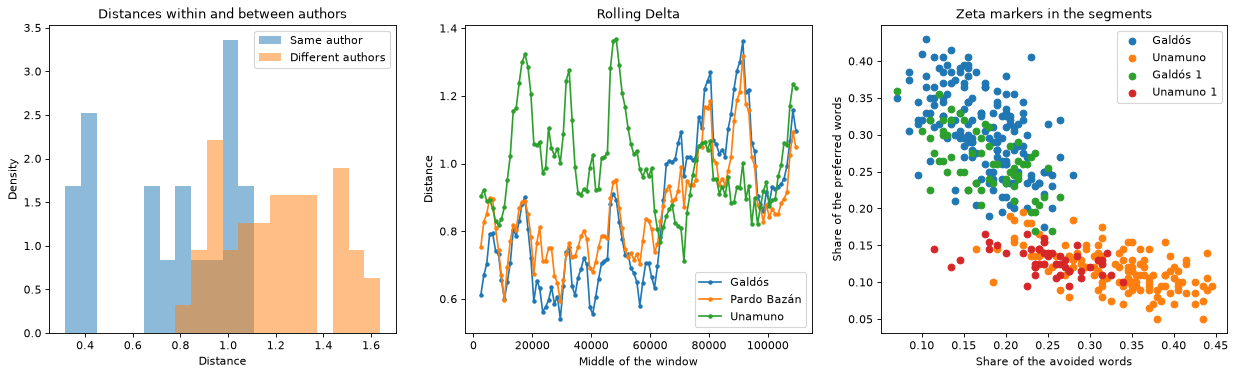
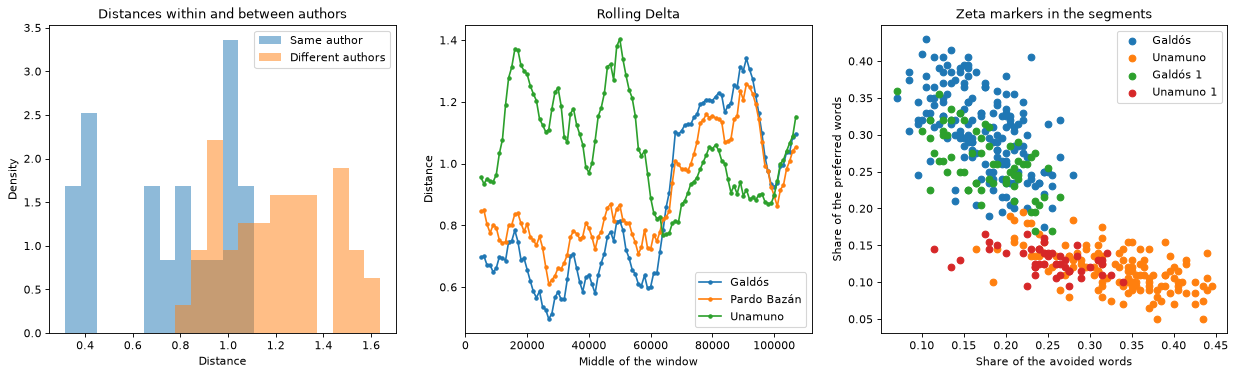
Review of PR #84: rolling Delta over windows of 10000 words, the paragraphs in the summaries

diff --git a/README.es.md b/README.es.md
@@ -37,7 +37,7 @@
 
 La biblioteca trabaja tanto con cadenas como con objetos `Doc` de [spaCy](https://github.com/explosion/spaCy); la mayoría de las estadísticas no necesita un modelo entrenado (véase Instalación). Se puede probar sin instalar en la [demo en Hugging Face Spaces](https://huggingface.co/spaces/SergeyShk/esTS): pegue un texto y obtenga su legibilidad, las métricas, los gráficos y el resaltado de sus fragmentos. Los [cuadernos](https://sergeyshk.github.io/esTS/es/examples/) muestran la biblioteca sobre sus conjuntos de datos - un cuento analizado con todas las herramientas, los prosistas, los sonetos y las medidas de corpus; el primero se abre en [Colab](https://colab.research.google.com/github/SergeyShk/esTS/blob/master/examples/01_text_walkthrough.ipynb).
 
-* **[Extracción de objetos](https://sergeyshk.github.io/esTS/es/extractors/sentences/)** - tokenizadores configurables de oraciones, palabras y N-gramas de caracteres que conocen los signos de apertura, la raya de diálogo y las abreviaturas del español
+* **[Extracción de objetos](https://sergeyshk.github.io/esTS/es/extractors/sentences/)** - tokenizadores configurables de oraciones, palabras y N-gramas de caracteres que conocen los signos de apertura, la raya de diálogo y las abreviaturas del español, y los párrafos de un texto
 * **[Sílabas y acento](https://sergeyshk.github.io/esTS/es/syllables/)** - silabificación por reglas y sílaba tónica deducida de la escritura, sin diccionario
 * **[Estadísticas básicas](https://sergeyshk.github.io/esTS/es/stats/basic_stats/)** - recuentos de oraciones, palabras, letras, sílabas y signos de puntuación por tipo, con distribuciones y proporciones normalizadas
 * **[Métricas de legibilidad](https://sergeyshk.github.io/esTS/es/stats/readability_stats/)** - Fernández Huerta, Szigriszt-Pazos con la escala INFLESZ, Gutiérrez de Polini, Crawford, Legibilidad µ, SOL, LIX y RIX, con grado de consenso, etapas escolares de España y tiempo de lectura, y fórmulas de otros idiomas con sus propios coeficientes
@@ -117,7 +117,7 @@ Las estadísticas según el diccionario de frecuencias lo necesitan descargado u
 
 ### Extracción de objetos
 
-Herramientas configurables extraen de un texto las oraciones, las palabras y los N-gramas de caracteres para las estadísticas. El segmentador de oraciones conoce los signos de apertura, la raya de diálogo y las abreviaturas del español; el tokenizador de palabras mantiene enteros los clíticos, los ordinales y los números escritos a la española, y los lemas vienen de [simplemma](https://github.com/adbar/simplemma), que no necesita modelo.
+Herramientas configurables extraen de un texto las oraciones, las palabras y los N-gramas de caracteres para las estadísticas, y `split_paragraphs` sus párrafos entre líneas en blanco. El segmentador de oraciones conoce los signos de apertura, la raya de diálogo y las abreviaturas del español; el tokenizador de palabras mantiene enteros los clíticos, los ordinales y los números escritos a la española, y los lemas vienen de [simplemma](https://github.com/adbar/simplemma), que no necesita modelo.
 
 ```python
 >>> from ests import CharNgramsExtractor, SentsExtractor, WordsExtractor
@@ -726,7 +726,7 @@ Los informes de errores, las ideas y los pull requests son bienvenidos en las [i
     *   constants.py - constantes de la lengua española y de las métricas
     *   diversity_stats.py - métricas de diversidad léxica del núcleo anyTS sobre una cadena o un Doc
     *   exceptions.py - excepciones de la biblioteca
-    *   extractors.py - los extractores del núcleo anyTS con los tokenizadores del español
+    *   extractors.py - los extractores del núcleo anyTS con los tokenizadores del español, los párrafos de un texto
     *   morph_stats.py - estadísticas morfológicas
     *   readability_stats.py - métricas de legibilidad: las fórmulas del español sobre las del núcleo anyTS
     *   unadapted_readability_stats.py - fórmulas de legibilidad de otros idiomas

diff --git a/README.md b/README.md
@@ -37,7 +37,7 @@
 
 The library works both with raw strings and with `Doc` objects of [spaCy](https://github.com/explosion/spaCy); most statistics need no trained model (see Installation). Try it without installing in the [demo on Hugging Face Spaces](https://huggingface.co/spaces/SergeyShk/esTS): paste a text and get its readability, the metrics, the plots and the highlighting of its fragments. The [notebooks](https://sergeyshk.github.io/esTS/examples/) show the library on its datasets - a short story through every tool, prose authors, sonnets and corpus measures; the first one opens in [Colab](https://colab.research.google.com/github/SergeyShk/esTS/blob/master/examples/01_text_walkthrough.ipynb).
 
-* **[Object extraction](https://sergeyshk.github.io/esTS/extractors/sentences/)** - configurable sentence, word and character N-gram tokenizers that know the inverted marks, the dialogue dash and the abbreviations of Spanish
+* **[Object extraction](https://sergeyshk.github.io/esTS/extractors/sentences/)** - configurable sentence, word and character N-gram tokenizers that know the inverted marks, the dialogue dash and the abbreviations of Spanish, and the paragraphs of a text
 * **[Syllables and stress](https://sergeyshk.github.io/esTS/syllables/)** - rule-based syllabification and the stressed syllable derived from the spelling, with no dictionary
 * **[Basic statistics](https://sergeyshk.github.io/esTS/stats/basic_stats/)** - counts of sentences, words, letters, syllables and punctuation marks by type, with distributions and normalized shares
 * **[Readability metrics](https://sergeyshk.github.io/esTS/stats/readability_stats/)** - Fernández Huerta, Szigriszt-Pazos with the INFLESZ scale, Gutiérrez de Polini, Crawford, Legibilidad µ, SOL, LIX and RIX, with a consensus grade, the school stages of Spain and reading time, and formulas of other languages with their own coefficients
@@ -117,7 +117,7 @@ The statistics by the frequency dictionary need it downloaded once with `FreqDic
 
 ### Object extraction
 
-Configurable tools extract sentences, words and character N-grams from a text for the statistics. The sentence splitter knows the inverted marks, the dialogue dash and the abbreviations of Spanish; the word tokenizer keeps clitics, ordinals and Spanish numbers whole, and lemmas come from [simplemma](https://github.com/adbar/simplemma), which needs no model.
+Configurable tools extract sentences, words and character N-grams from a text for the statistics, and `split_paragraphs` its paragraphs between blank lines. The sentence splitter knows the inverted marks, the dialogue dash and the abbreviations of Spanish; the word tokenizer keeps clitics, ordinals and Spanish numbers whole, and lemmas come from [simplemma](https://github.com/adbar/simplemma), which needs no model.
 
 ```python
 >>> from ests import CharNgramsExtractor, SentsExtractor, WordsExtractor
@@ -726,7 +726,7 @@ Bug reports, ideas and pull requests are welcome in the [issues](https://github.
     *   constants.py - constants of the Spanish language and of the metrics
     *   diversity_stats.py - lexical diversity metrics of the anyTS core over a string or a Doc
     *   exceptions.py - library exceptions
-    *   extractors.py - the extractors of the anyTS core with the Spanish tokenizers
+    *   extractors.py - the extractors of the anyTS core with the Spanish tokenizers, the paragraphs of a text
     *   morph_stats.py - morphological statistics
     *   readability_stats.py - readability metrics: the Spanish formulas over those of the anyTS core
     *   unadapted_readability_stats.py - readability formulas of other languages

diff --git a/docs/visualizers/stylometry.es.md b/docs/visualizers/stylometry.es.md
@@ -205,7 +205,7 @@ corpora = {
 fig, axes = plt.subplots(1, 3, figsize=(19, 5))
 delta_histogram_plot(delta(corpus, n_mfw=100, variant="cosine"), authors, ax=axes[0])
 rolling_delta_plot(
-    rolling_delta(reference, corpus["Galdós 1"] + corpus["Unamuno 1"], window=5000, step=1000),
+    rolling_delta(reference, corpus["Galdós 1"] + corpus["Unamuno 1"], window=10000, step=1000),
     ax=axes[1],
 )
 zeta_scatter_plot(zeta_segments(corpora, preferred, avoided, segment_size=1000), ax=axes[2])
@@ -213,4 +213,4 @@ zeta_scatter_plot(zeta_segments(corpora, preferred, avoided, segment_size=1000),
 
 ![ests](../img/stylometry_authors.png){: .center }
 
-Las distancias entre las obras de un mismo autor quedan en su mayoría por debajo de las distancias entre obras de autores distintos. A lo largo de la novela de Galdós su autor más cercano es Galdós en 57 ventanas de 61; a lo largo de la de Unamuno, Unamuno en 26 de 42 y Pardo Bazán en las demás: una ventana de 5000 palabras es corta para Delta. En el plano de los marcadores de Zeta, los segmentos de las dos obras que quedaron fuera de su cálculo caen en las nubes de sus autores.
+Las distancias entre las obras de un mismo autor quedan en su mayoría por debajo de las distancias entre obras de autores distintos. A lo largo de *Bailén* de Galdós el autor más cercano es Galdós en las 59 ventanas de 10000 palabras; a lo largo de *Amor y pedagogía* de Unamuno es Unamuno hasta el epílogo (la palabra 35438 de la novela) y el tratado de cocotología añadido tras él (la palabra 42748), donde Pardo Bazán queda más cerca en las 8 últimas ventanas: la Delta móvil señala un cambio de registro dentro de una obra. En el plano de los marcadores de Zeta, los segmentos de las dos obras que quedaron fuera de su cálculo caen en las nubes de sus autores.

diff --git a/docs/visualizers/stylometry.md b/docs/visualizers/stylometry.md
@@ -109,7 +109,7 @@ corpora = {
 fig, axes = plt.subplots(1, 3, figsize=(19, 5))
 delta_histogram_plot(delta(corpus, n_mfw=100, variant="cosine"), authors, ax=axes[0])
 rolling_delta_plot(
-    rolling_delta(reference, corpus["Galdós 1"] + corpus["Unamuno 1"], window=5000, step=1000),
+    rolling_delta(reference, corpus["Galdós 1"] + corpus["Unamuno 1"], window=10000, step=1000),
     ax=axes[1],
 )
 zeta_scatter_plot(zeta_segments(corpora, preferred, avoided, segment_size=1000), ax=axes[2])
@@ -117,4 +117,4 @@ zeta_scatter_plot(zeta_segments(corpora, preferred, avoided, segment_size=1000),
 
 ![ests](../img/stylometry_authors.png){: .center }
 
-The distances between the works of one author lie mostly below those between the works of different authors. Along the novel of Galdós its nearest author is Galdós in 57 windows of 61, along that of Unamuno Unamuno in 26 of 42, Pardo Bazán in the others: a window of 5000 words is short for Delta. On the markers of Zeta the segments of the two unseen works fall into the clouds of their authors.
+The distances between the works of one author lie mostly below those between the works of different authors. Along *Bailén* of Galdós the nearest author is Galdós in all the 59 windows of 10000 words; along *Amor y pedagogía* of Unamuno it is Unamuno until the epilogue (word 35438 of the novel) and the treatise of cocotology appended to it (word 42748), where Pardo Bazán comes nearest in the last 8 windows: rolling Delta marks a change of register inside a work. On the markers of Zeta the segments of the two unseen works fall into the clouds of their authors.

diff --git a/docs/index.es.md b/docs/index.es.md
@@ -18,7 +18,7 @@ Se puede probar sin instalar en la [demo en Hugging Face Spaces](https://hugging
 
     ---
 
-    Tokenizadores de [oraciones](extractors/sentences.md), [palabras](extractors/words.md) y [N-gramas de caracteres](extractors/char_ngrams.md) que conocen los signos de apertura, la raya de diálogo y las abreviaturas del español
+    Tokenizadores de [oraciones](extractors/sentences.md), [palabras](extractors/words.md) y [N-gramas de caracteres](extractors/char_ngrams.md) que conocen los signos de apertura, la raya de diálogo y las abreviaturas del español, y los [párrafos](extractors/sentences.md#split_paragraphs) de un texto
 
     [:octicons-arrow-right-24: Extracción](extractors/sentences.md)
 
@@ -256,7 +256,7 @@ Un cuento analizado con todas las herramientas de la biblioteca está en el cuad
         *   constants.py - constantes de la lengua española y de las métricas
         *   diversity_stats.py - métricas de diversidad léxica
         *   exceptions.py - excepciones de la biblioteca
-        *   extractors.py - extractores de oraciones, palabras y N-gramas de caracteres con los tokenizadores del español
+        *   extractors.py - extractores de oraciones, palabras y N-gramas de caracteres con los tokenizadores del español, los párrafos de un texto
         *   lexical_stats.py - estadísticas de complejidad léxica
         *   morph_stats.py - estadísticas morfológicas
         *   phon_stats.py - fonoestadística

diff --git a/docs/index.md b/docs/index.md
@@ -18,7 +18,7 @@ Try it without installing in the [demo on Hugging Face Spaces](https://huggingfa
 
     ---
 
-    Tokenizers of [sentences](extractors/sentences.md), [words](extractors/words.md) and [character N-grams](extractors/char_ngrams.md) that know the inverted marks, the dialogue dash and the abbreviations of Spanish
+    Tokenizers of [sentences](extractors/sentences.md), [words](extractors/words.md) and [character N-grams](extractors/char_ngrams.md) that know the inverted marks, the dialogue dash and the abbreviations of Spanish, and the [paragraphs](extractors/sentences.md#split_paragraphs) of a text
 
     [:octicons-arrow-right-24: Extraction](extractors/sentences.md)
 
@@ -256,7 +256,7 @@ A walkthrough of one short story with every tool of the library is in the notebo
         *   constants.py - constants of the Spanish language and of the metrics
         *   diversity_stats.py - lexical diversity metrics
         *   exceptions.py - library exceptions
-        *   extractors.py - extractors of sentences, words and character N-grams with the Spanish tokenizers
+        *   extractors.py - extractors of sentences, words and character N-grams with the Spanish tokenizers, the paragraphs of a text
         *   lexical_stats.py - lexical sophistication statistics
         *   morph_stats.py - morphological statistics
         *   phon_stats.py - phonostatistics
